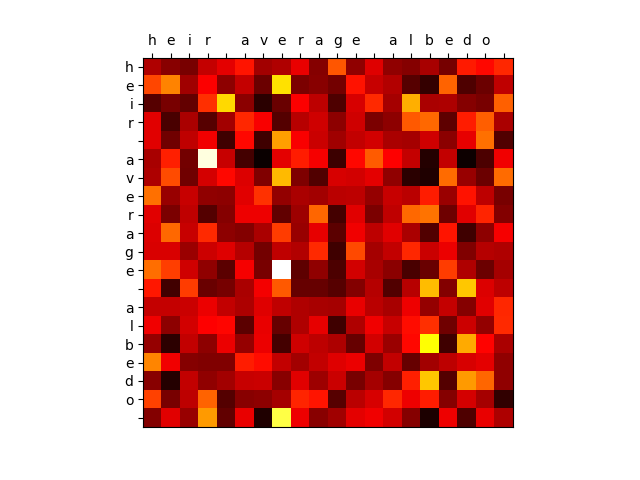
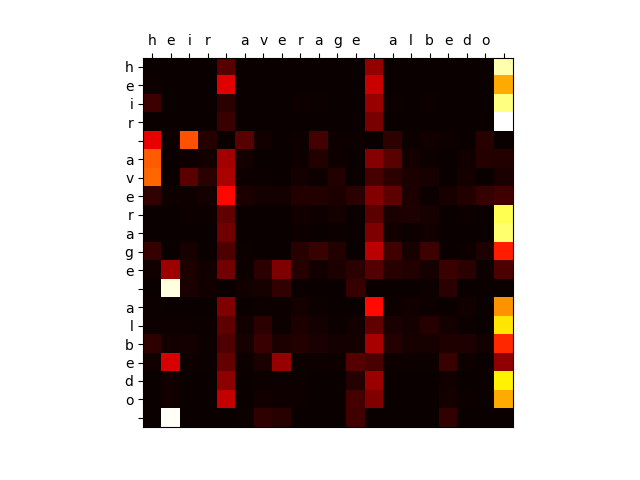
Training model with d_model=80, d_internal=100, num_layers=1

diff --git a/A2/A2p12/transformer.py b/A2/A2p12/transformer.py
@@ -46,7 +46,9 @@ class Transformer(nn.Module):
         self.num_layers = num_layers
         self.layers = nn.ModuleList([TransformerLayer(self.d_model, self.d_internal) for _ in range(self.num_layers)])
         self.linear = nn.Linear(d_model, self.num_classes)
-
+        self.embedding = nn.Embedding(self.vocab_size, self.d_model)
+        self.pos = PositionalEncoding(self.d_model, self.num_positions, True)
+        self.softmax = nn.Softmax(dim=1)
     def forward(self, indices):
         """
 
@@ -55,22 +57,25 @@ class Transformer(nn.Module):
         maps you use in your layers (can be variable length, but each should be a 20x20 matrix)
         """
         # (1) adding positional encodings to the input (see the PositionalEncoding class; but we recommend leaving these out for now) 
-        input = nn.Embedding(self.vocab_size, self.d_model)(indices)
-        input = PositionalEncoding(self.d_model, self.num_positions, True)(input)
+        # input = nn.Embedding(self.vocab_size, self.d_model)(indices)
+        input = self.embedding(indices)
+        input = self.pos(input)
+        # input = PositionalEncoding(self.d_model, self.num_positions, True)(input)
         
         # (2) using one or more of your TransformerLayers; 
         attention = []
         for layer in self.layers:
-            input, atten = layer.forward(input)
+            input, atten = layer(input)
             attention.append(atten)
+        attention.append(atten)
         
         # (3) using Linear and softmax layers to make the prediction. You are
         # simultaneously making predictions over each position in the sequence. Your network should return the
         # log probabilities at the output layer (a 20x3 matrix) as well as the attentions you compute, which are then
         # plotted for you for visualization purposes in plots
-        output = self.linear(input.float())
-        softmax = nn.Softmax(dim=1)
-        output = softmax(output)
+        output = self.linear(input)
+        # softmax = nn.Softmax(dim=1)
+        output = self.softmax(output)
         return output[0], attention[0]
 
 # Your implementation of the Transformer layer goes here. It should take vectors and return the same number of vectors
@@ -89,21 +94,26 @@ class TransformerLayer(nn.Module):
         self.linear1 = nn.Linear(self.d_model, self.d_internal)
         self.relu = nn.ReLU()
         self.linear2 = nn.Linear(self.d_internal, self.d_model)
+        self.query = nn.Linear(self.d_model, self.d_model)
+        self.key = nn.Linear(self.d_model, self.d_model)
+        self.value = nn.Linear(self.d_model, self.d_model)
+        self.softmax = nn.Softmax(dim=-1)
         
     def forward(self, input_vecs):
-        query = nn.Linear(self.d_model, self.d_model)
-        key = nn.Linear(self.d_model, self.d_model)
-        value = nn.Linear(self.d_model, self.d_model)
-        q = query(input_vecs)
-        k = key(input_vecs)
-        v = value(input_vecs)
+        # query = nn.Linear(self.d_model, self.d_model)
+        # key = nn.Linear(self.d_model, self.d_model)
+        # value = nn.Linear(self.d_model, self.d_model)
+        q = self.query(input_vecs)
+        k = self.key(input_vecs)
+        v = self.value(input_vecs)
         
         similarity = torch.matmul(q, k.transpose(-1, -2) / np.sqrt(self.d_internal))
-        similarity = torch.nn.functional.softmax(similarity, dim=-1)
+        # similarity = torch.nn.functional.softmax(similarity, dim=-1)
+        similarity = self.softmax(similarity)
         output = torch.matmul(similarity, v)
 
         # (2) residual connection; 
-        output += input_vecs.float()
+        # output += input_vecs.float()
 
         # (3) Linear layer, nonlinearity, and Linear layer; 
         output = self.linear1(output)
@@ -111,7 +121,7 @@ class TransformerLayer(nn.Module):
         output = self.linear2(output)
     
         # (4) final residual connection.       
-        output += input_vecs.float()
+        # output += input_vecs.float()
         
         return output, similarity
     
@@ -152,9 +162,9 @@ class PositionalEncoding(nn.Module):
 
 # This is a skeleton for train_classifier: you can implement this however you want
 def train_classifier(args, train, dev):
-    d_model = 20
+    d_model = 80
     d_internal = 100
-    num_layers = 2
+    num_layers = 1
     print("Training model with d_model=%i, d_internal=%i, num_layers=%i" % (d_model, d_internal, num_layers))
     model = Transformer(vocab_size=27, num_positions=20, d_model=d_model, d_internal=d_internal, num_classes=3, num_layers=num_layers)
     model.zero_grad()
@@ -171,6 +181,7 @@ def train_classifier(args, train, dev):
         loss_fcn = nn.NLLLoss()
 
         for ex_idx in ex_idxs:
+            optimizer.zero_grad()
             outputs = model.forward(train[ex_idx].input_tensor)[0]
             targets = train[ex_idx].output_tensor
             
